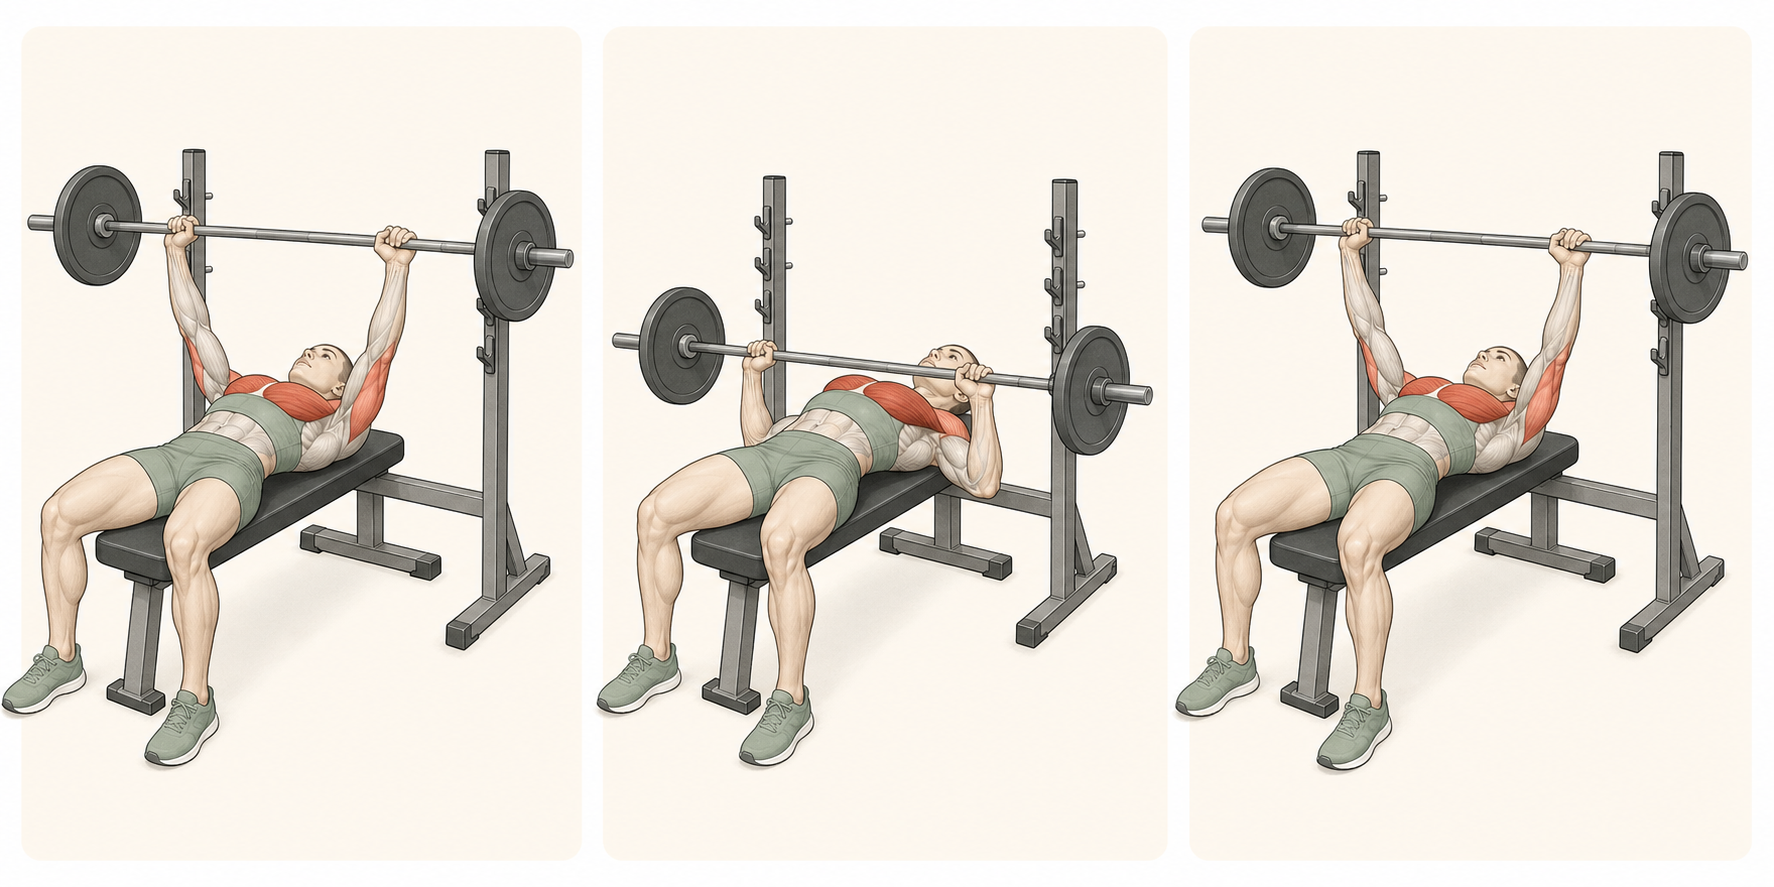
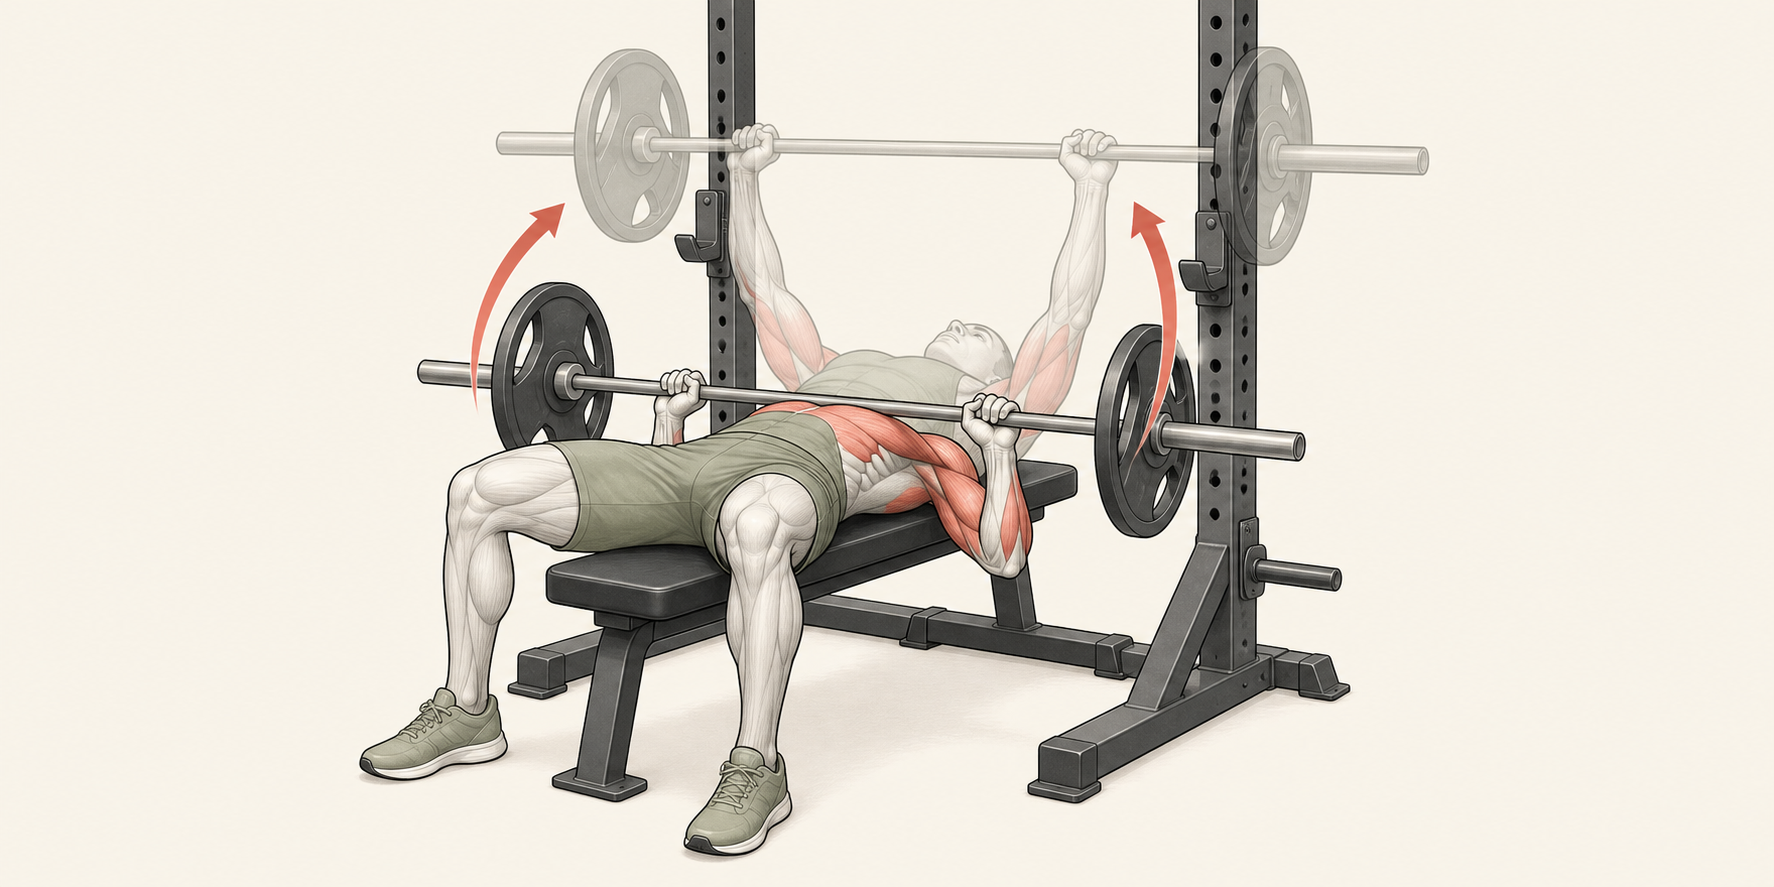
feat: expand ghost-motion exercise illustrations

diff --git a/ai/demo/static/index.html b/ai/demo/static/index.html
@@ -27,7 +27,7 @@
     <div class="panel hidden" id="training-result"></div>
   </section>
 
-  <section class="view hidden" id="library-view"><div class="panel"><h2>动作资料库</h2><p class="sub">每个动作包含目标肌群、器械、等级、步骤和安全提醒。</p><p class="notice">肌肉高亮图为原创 AI 教学示意图，不能代替教练现场指导或医疗建议。</p><div class="chips" id="muscle-filter"><button class="chip on">全部</button><button class="chip">胸</button><button class="chip">背</button><button class="chip">腿臀</button><button class="chip">肩</button><button class="chip">核心</button></div><div id="exercise-list"></div></div></section>
+  <section class="view hidden" id="library-view"><div class="panel"><h2>动作资料库</h2><p class="sub">每个动作包含目标肌群、器械、等级、步骤和安全提醒。</p><p class="notice">实体为起始姿势，半透明虚影为结束姿势，箭头表示运动方向；红色区域表示主要发力肌群。示意图不能代替教练现场指导或医疗建议。</p><div class="chips" id="muscle-filter"><button class="chip on">全部</button><button class="chip">胸</button><button class="chip">背</button><button class="chip">腿臀</button><button class="chip">肩</button><button class="chip">核心</button></div><div id="exercise-list"></div></div></section>
 </main>
 <script>
 const state={recipes:[],exercises:[]};
@@ -38,6 +38,6 @@ document.getElementById('generate-food').addEventListener('click',async()=>{cons
 document.getElementById('recipe-list').addEventListener('click',e=>{const b=e.target.closest('[data-recipe]');if(!b)return;const r=state.recipes[Number(b.dataset.recipe)],box=document.getElementById('recipe-detail');box.innerHTML=`<p class="sub">${esc(r.style)} · ${r.estimated_minutes} 分钟</p><h2>${esc(r.name)}</h2><div class="metrics"><div class="metric">热量<b>${r.nutrition.kcal}</b>kcal</div><div class="metric">蛋白质<b>${r.nutrition.protein}</b>g</div><div class="metric">碳水<b>${r.nutrition.carbs}</b>g</div><div class="metric">脂肪<b>${r.nutrition.fat}</b>g</div></div><h3>食材</h3>${r.ingredients.map(x=>`<p>${esc(x.name)}　<b>${x.grams}g</b></p>`).join('')}<h3>调味</h3><p>${r.seasonings.map(esc).join(' · ')}</p><h3>详细步骤</h3><ol>${r.steps.map(x=>`<li>${esc(x)}</li>`).join('')}</ol><p class="sub">主厨提示：${esc(r.chef_tip)}</p><p class="sub">营养计算：${esc(r.nutrition_source)}</p>`;box.classList.remove('hidden');box.scrollIntoView({behavior:'smooth'})});
 document.getElementById('generate-training').addEventListener('click',async()=>{const error=document.getElementById('training-error');error.classList.add('hidden');try{const response=await fetch('/api/training/plan',{method:'POST',headers:{'Content-Type':'application/json'},body:JSON.stringify({goal:document.getElementById('goal').value,level:document.getElementById('level').value,days:Number(document.getElementById('days').value)})});const p=await response.json();if(!response.ok)throw new Error(p.message);const box=document.getElementById('training-result');box.innerHTML=`<p class="sub">${esc(p.goal)} · ${esc(p.level)} · 每周 ${p.days_per_week} 天</p><h2>你的本周训练</h2>${p.sessions.map(s=>`<article class="session"><h3>Day ${s.day}　${esc(s.name)}</h3><p class="sub">约 ${s.estimated_minutes} 分钟</p>${s.exercises.map(x=>`<div class="exercise"><b>${esc(x.name)}</b>　<span class="badge">${esc(x.muscle)}</span><br><span class="sub">${x.sets} 组 × ${esc(x.reps)} 次 · 休息 ${x.rest_seconds} 秒</span></div>`).join('')}</article>`).join('')}<p class="sub">原则：${esc(p.principle)}</p>`;box.classList.remove('hidden')}catch(e){error.textContent=e.message;error.classList.remove('hidden')}});
 async function loadExercises(){const r=await fetch('/api/exercises');const d=await r.json();state.exercises=d.exercises;renderExercises('全部')}
-function renderExercises(muscle){const items=muscle==='全部'?state.exercises:state.exercises.filter(x=>x.muscle===muscle);document.getElementById('exercise-list').innerHTML=items.map(x=>`<article class="recipe-card"><h3>${esc(x.name)}</h3><p><span class="badge">${esc(x.muscle)}</span><span class="badge">${esc(x.equipment)}</span><span class="badge">${esc(x.level)}</span></p>${x.illustration?`<img class="exercise-art" src="${esc(x.illustration.url)}" alt="${esc(x.name)}三阶段动作与发力肌群示意图"><p class="sub">红色高亮：${x.illustration.active_muscles.map(esc).join('、')}</p>`:'<p class="sub">教学图正在制作中</p>'}<ol>${x.steps.map(s=>`<li>${esc(s)}</li>`).join('')}</ol><p class="sub">注意：${esc(x.warning)}</p></article>`).join('')}
+function renderExercises(muscle){const items=muscle==='全部'?state.exercises:state.exercises.filter(x=>x.muscle===muscle);document.getElementById('exercise-list').innerHTML=items.map(x=>`<article class="recipe-card"><h3>${esc(x.name)}</h3><p><span class="badge">${esc(x.muscle)}</span><span class="badge">${esc(x.equipment)}</span><span class="badge">${esc(x.level)}</span></p>${x.illustration?`<img class="exercise-art" src="${esc(x.illustration.url)}" alt="${esc(x.name)}起始姿势、结束虚影与发力肌群示意图" loading="lazy"><p class="sub">红色高亮：${x.illustration.active_muscles.map(esc).join('、')}</p>`:'<p class="sub">教学图正在制作中</p>'}<ol>${x.steps.map(s=>`<li>${esc(s)}</li>`).join('')}</ol><p class="sub">注意：${esc(x.warning)}</p></article>`).join('')}
 document.getElementById('muscle-filter').addEventListener('click',e=>{const b=e.target.closest('button');if(!b)return;document.querySelectorAll('#muscle-filter button').forEach(x=>x.classList.toggle('on',x===b));renderExercises(b.textContent)});
 </script></body></html>

diff --git a/ai/demo/training_engine.py b/ai/demo/training_engine.py
@@ -18,9 +18,13 @@ EXERCISES = [
 
 ILLUSTRATIONS = {
     "chest-01": {"url": "/assets/exercises/barbell-bench-press.png", "active_muscles": ["胸大肌", "肱三头肌", "三角肌前束"]},
+    "chest-02": {"url": "/assets/exercises/incline-dumbbell-press.png", "active_muscles": ["胸大肌上束", "肱三头肌", "三角肌前束"]},
     "back-01": {"url": "/assets/exercises/lat-pulldown.png", "active_muscles": ["背阔肌", "肱二头肌", "菱形肌"]},
+    "back-02": {"url": "/assets/exercises/seated-cable-row.png", "active_muscles": ["背阔肌", "菱形肌", "斜方肌中束"]},
     "leg-01": {"url": "/assets/exercises/goblet-squat.png", "active_muscles": ["股四头肌", "臀大肌", "核心"]},
-    "core-01": {"url": "/assets/exercises/forearm-plank.png", "active_muscles": ["腹横肌", "腹直肌", "臀大肌"]},
+    "leg-02": {"url": "/assets/exercises/dumbbell-romanian-deadlift.png", "active_muscles": ["臀大肌", "腘绳肌", "竖脊肌"]},
+    "shoulder-02": {"url": "/assets/exercises/dumbbell-lateral-raise.png", "active_muscles": ["三角肌中束", "冈上肌", "斜方肌"]},
+    "core-02": {"url": "/assets/exercises/dead-bug.png", "active_muscles": ["腹横肌", "腹直肌", "髂腰肌"]},
 }
 
 GOAL_REPS = {"减脂": "10–15", "增肌": "8–12", "保持健康": "10–12"}

diff --git a/ai/demo/tests/test_recipe.py b/ai/demo/tests/test_recipe.py
@@ -42,6 +42,8 @@ class TrainingTests(unittest.TestCase):
     def test_exercise_database(self):
         self.assertGreaterEqual(len(list_exercises()), 12)
         self.assertTrue(list_exercises(muscle="胸"))
+        self.assertGreaterEqual(
+            sum(bool(item["illustration"]) for item in list_exercises()), 8)
 
     def test_plan_structure(self):
         plan = generate_plan("减脂", "新手", 3)

diff --git a/ai/demo/README.md b/ai/demo/README.md
@@ -6,7 +6,7 @@
 - 程序生成多种真实菜式、调味方案和结构化食谱
 - 营养数据由本地数据库按克数计算，不让 AI 猜热量
 - 提供网页演示和 JSON API
-- 提供动作数据库、动作说明、原创分步肌肉高亮图和个性化周训练计划
+- 提供动作数据库、动作说明、原创虚影轨迹肌肉高亮图和个性化周训练计划
 - 只使用 Python 标准库，无需安装依赖或配置 API Key
 
 ## 运行
